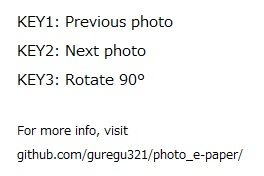
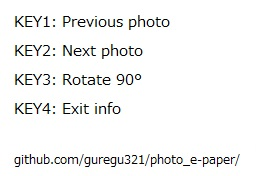
2215

diff --git a/photo.py b/photo.py
@@ -71,7 +71,6 @@ def update_image(epd, config):
     if config['display']['orientation'] == 0 or config['display']['orientation'] == 180 :
         # Clear with white
         image = Image.new('L', (epd.width, epd.height), 255)
-        # draw = ImageDraw.Draw(image)
         # Display photo
         image.paste(photo_image, (0,0))
         if config['display']['orientation'] == 180 :
@@ -79,8 +78,7 @@ def update_image(epd, config):
     if config['display']['orientation'] == 90 or config['display']['orientation'] == 270 :
         # Clear with white
         image = Image.new('L', (epd.height, epd.width), 255)
-        # draw = ImageDraw.Draw(image) 
-        #Display photo
+        # Display photo
         image.paste(photo_image, (0,0))
         if config['display']['orientation'] == 270 :
             image=image.rotate(180, expand=True)
@@ -93,6 +91,19 @@ def update_image(epd, config):
 
     # Display the image on the screen
     print("Displaying {}".format(config['ticker']['image_list'][0]))
+    epd.display_4Gray(epd.getbuffer_4Gray(image))
+
+def display_info():
+    photo_image = Image.open(infofile)
+    # Clear with white
+    image = Image.new('L', (epd.height, epd.width), 255)
+    # Display photo
+    image.paste(photo_image, (0,0))
+    if config['display']['orientation'] == 270 :
+        image=image.rotate(180, expand=True)
+    # This is a hack to deal with the mirroring that goes on in 4Gray Horizontal
+    image = ImageOps.mirror(image)
+    print("Displaying info")
     epd.display_4Gray(epd.getbuffer_4Gray(image))
 
 def main():    
@@ -141,19 +152,9 @@ def main():
                 config['display']['orientation'] = (config['display']['orientation']+90) % 360
                 update_image(epd, config)
                 last_time=time.time()
-            if key4state == False:
-                photo_image = Image.open(infofile)
-                # Clear with white
-                image = Image.new('L', (epd.height, epd.width), 255)
-                # draw = ImageDraw.Draw(image)
-                #Display photo
-                image.paste(photo_image, (0,0))
-                if config['display']['orientation'] == 270 :
-                    image=image.rotate(180, expand=True)
-                # This is a hack to deal with the mirroring that goes on in 4Gray Horizontal
-                image = ImageOps.mirror(image)
-                print("Displaying info")
-                epd.display_4Gray(epd.getbuffer_4Gray(image))
+            if key4state == False: # Display info
+                display_info()
+                last_time=time.time()
 
             # Cycle photos    
             if (time.time() - last_time > float(config['ticker']['updatefrequency'])) or (initial_screen == False):
